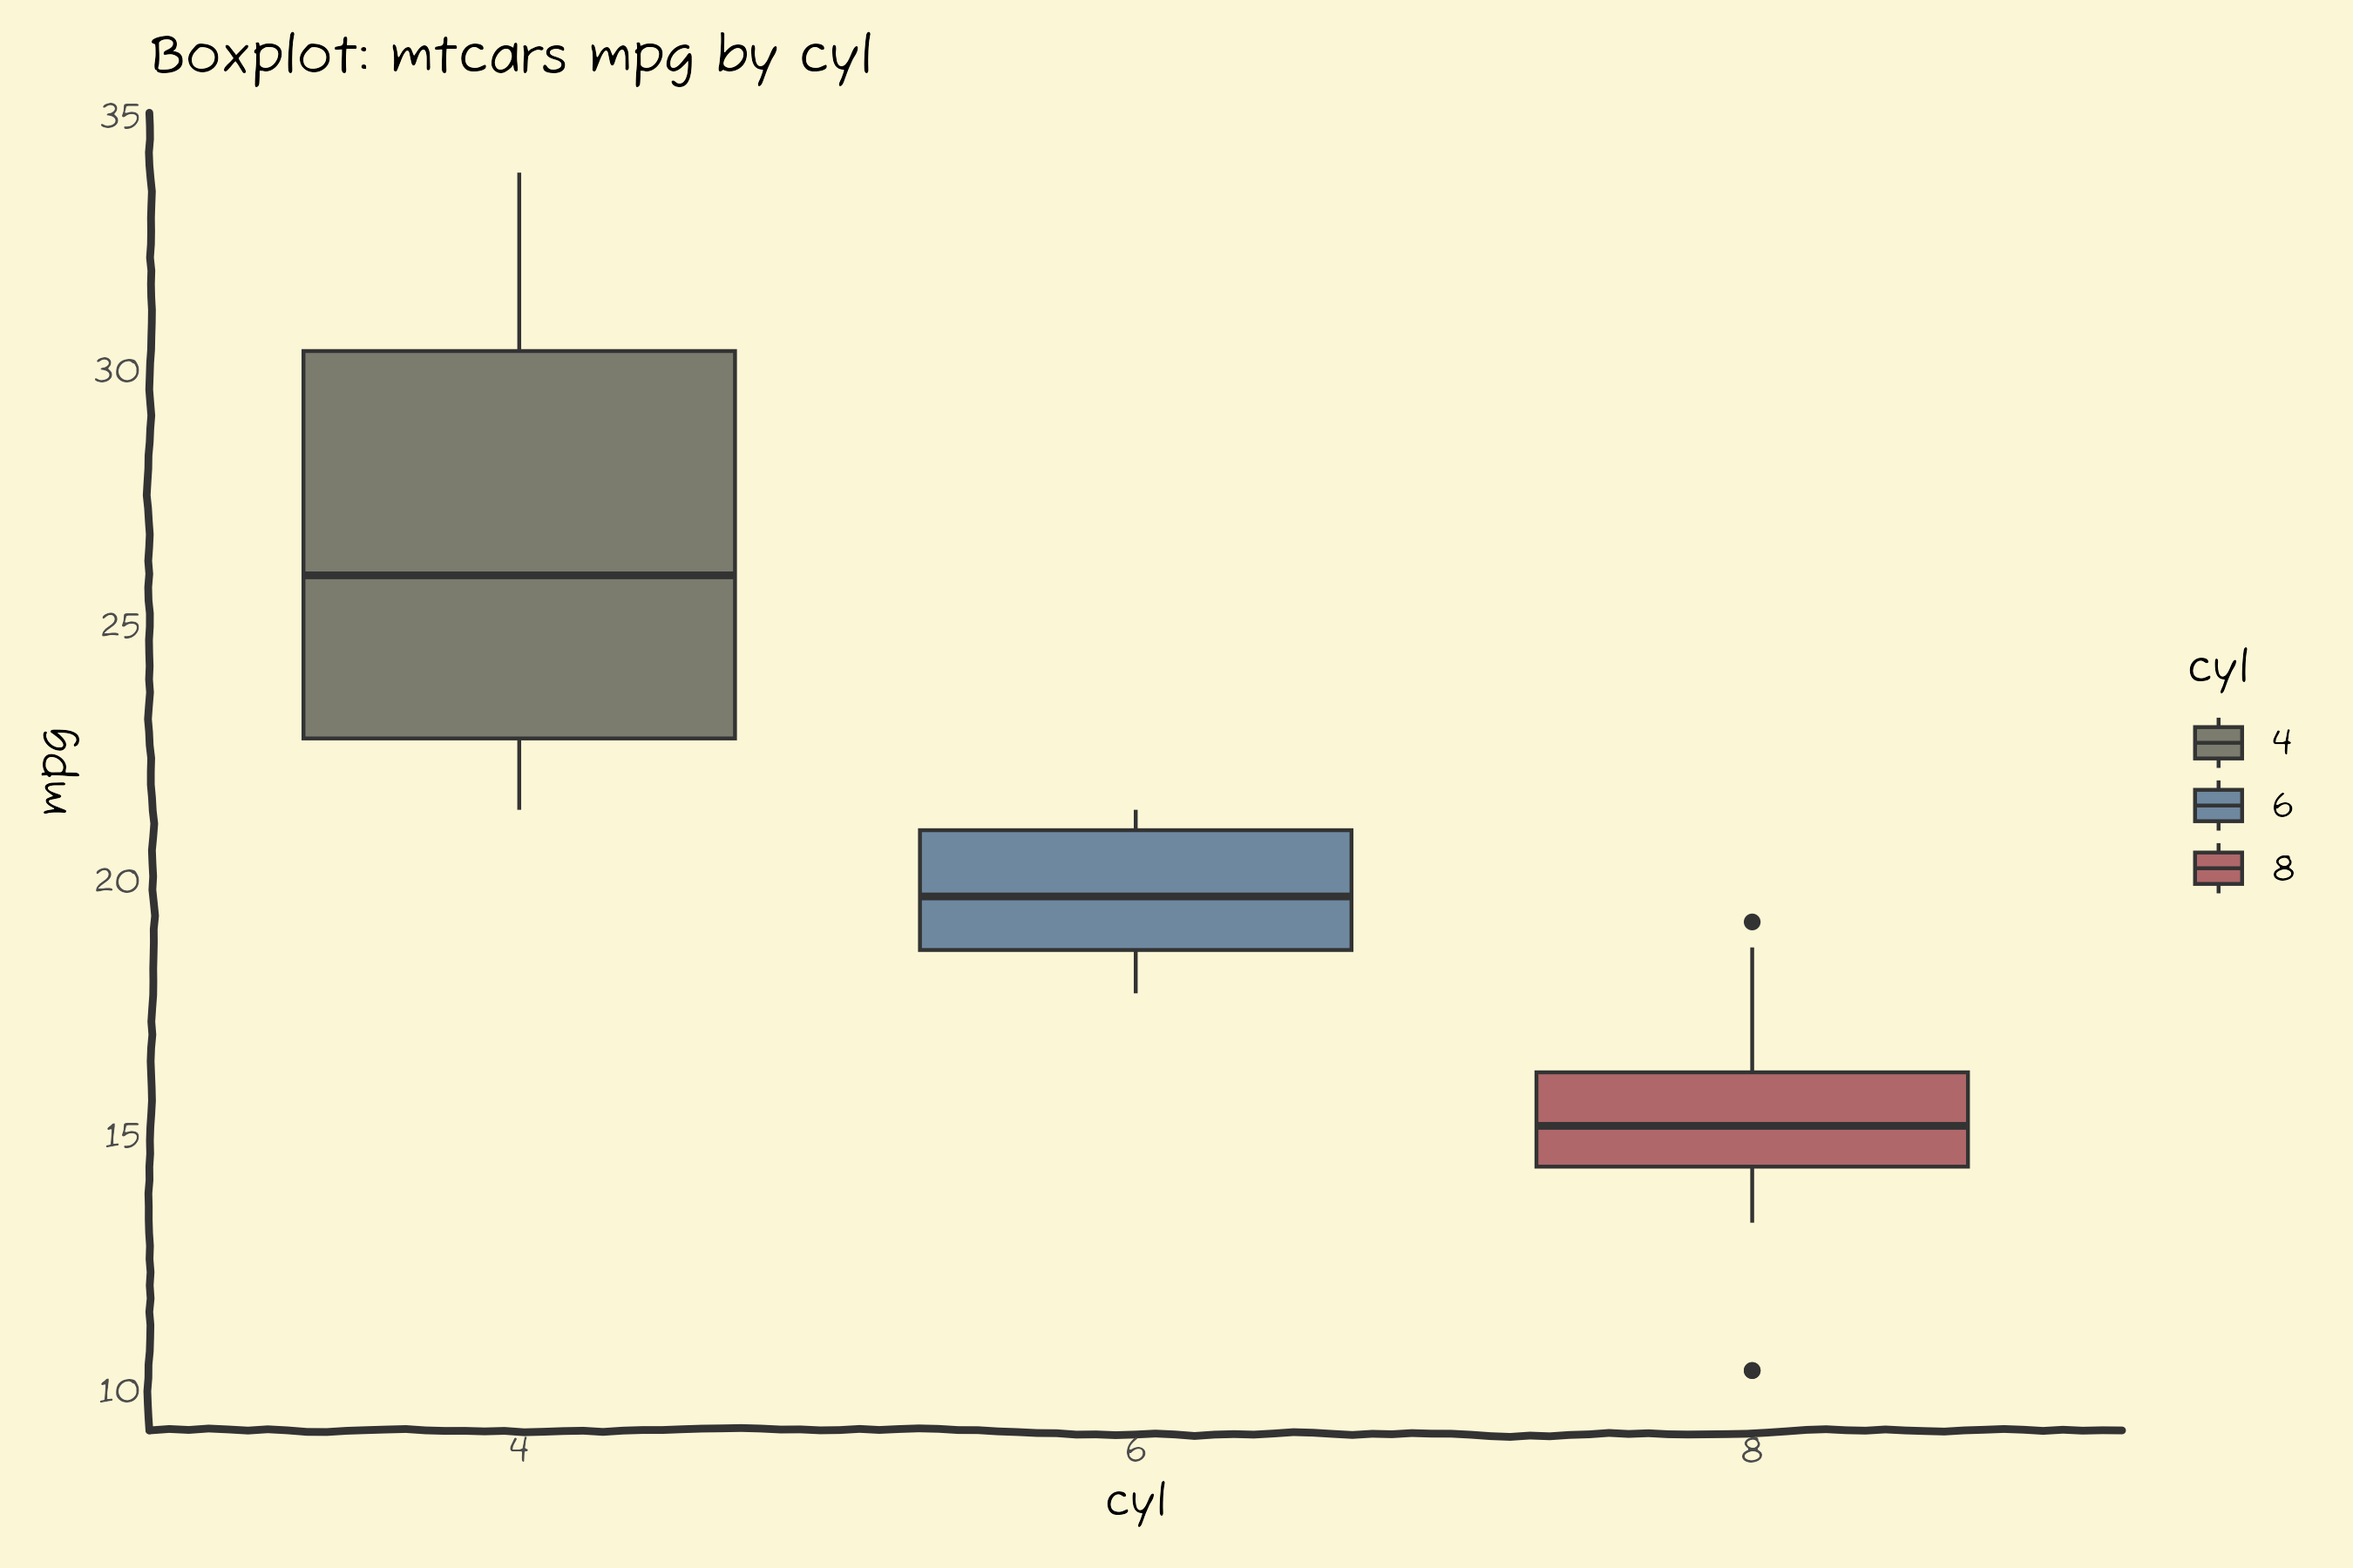
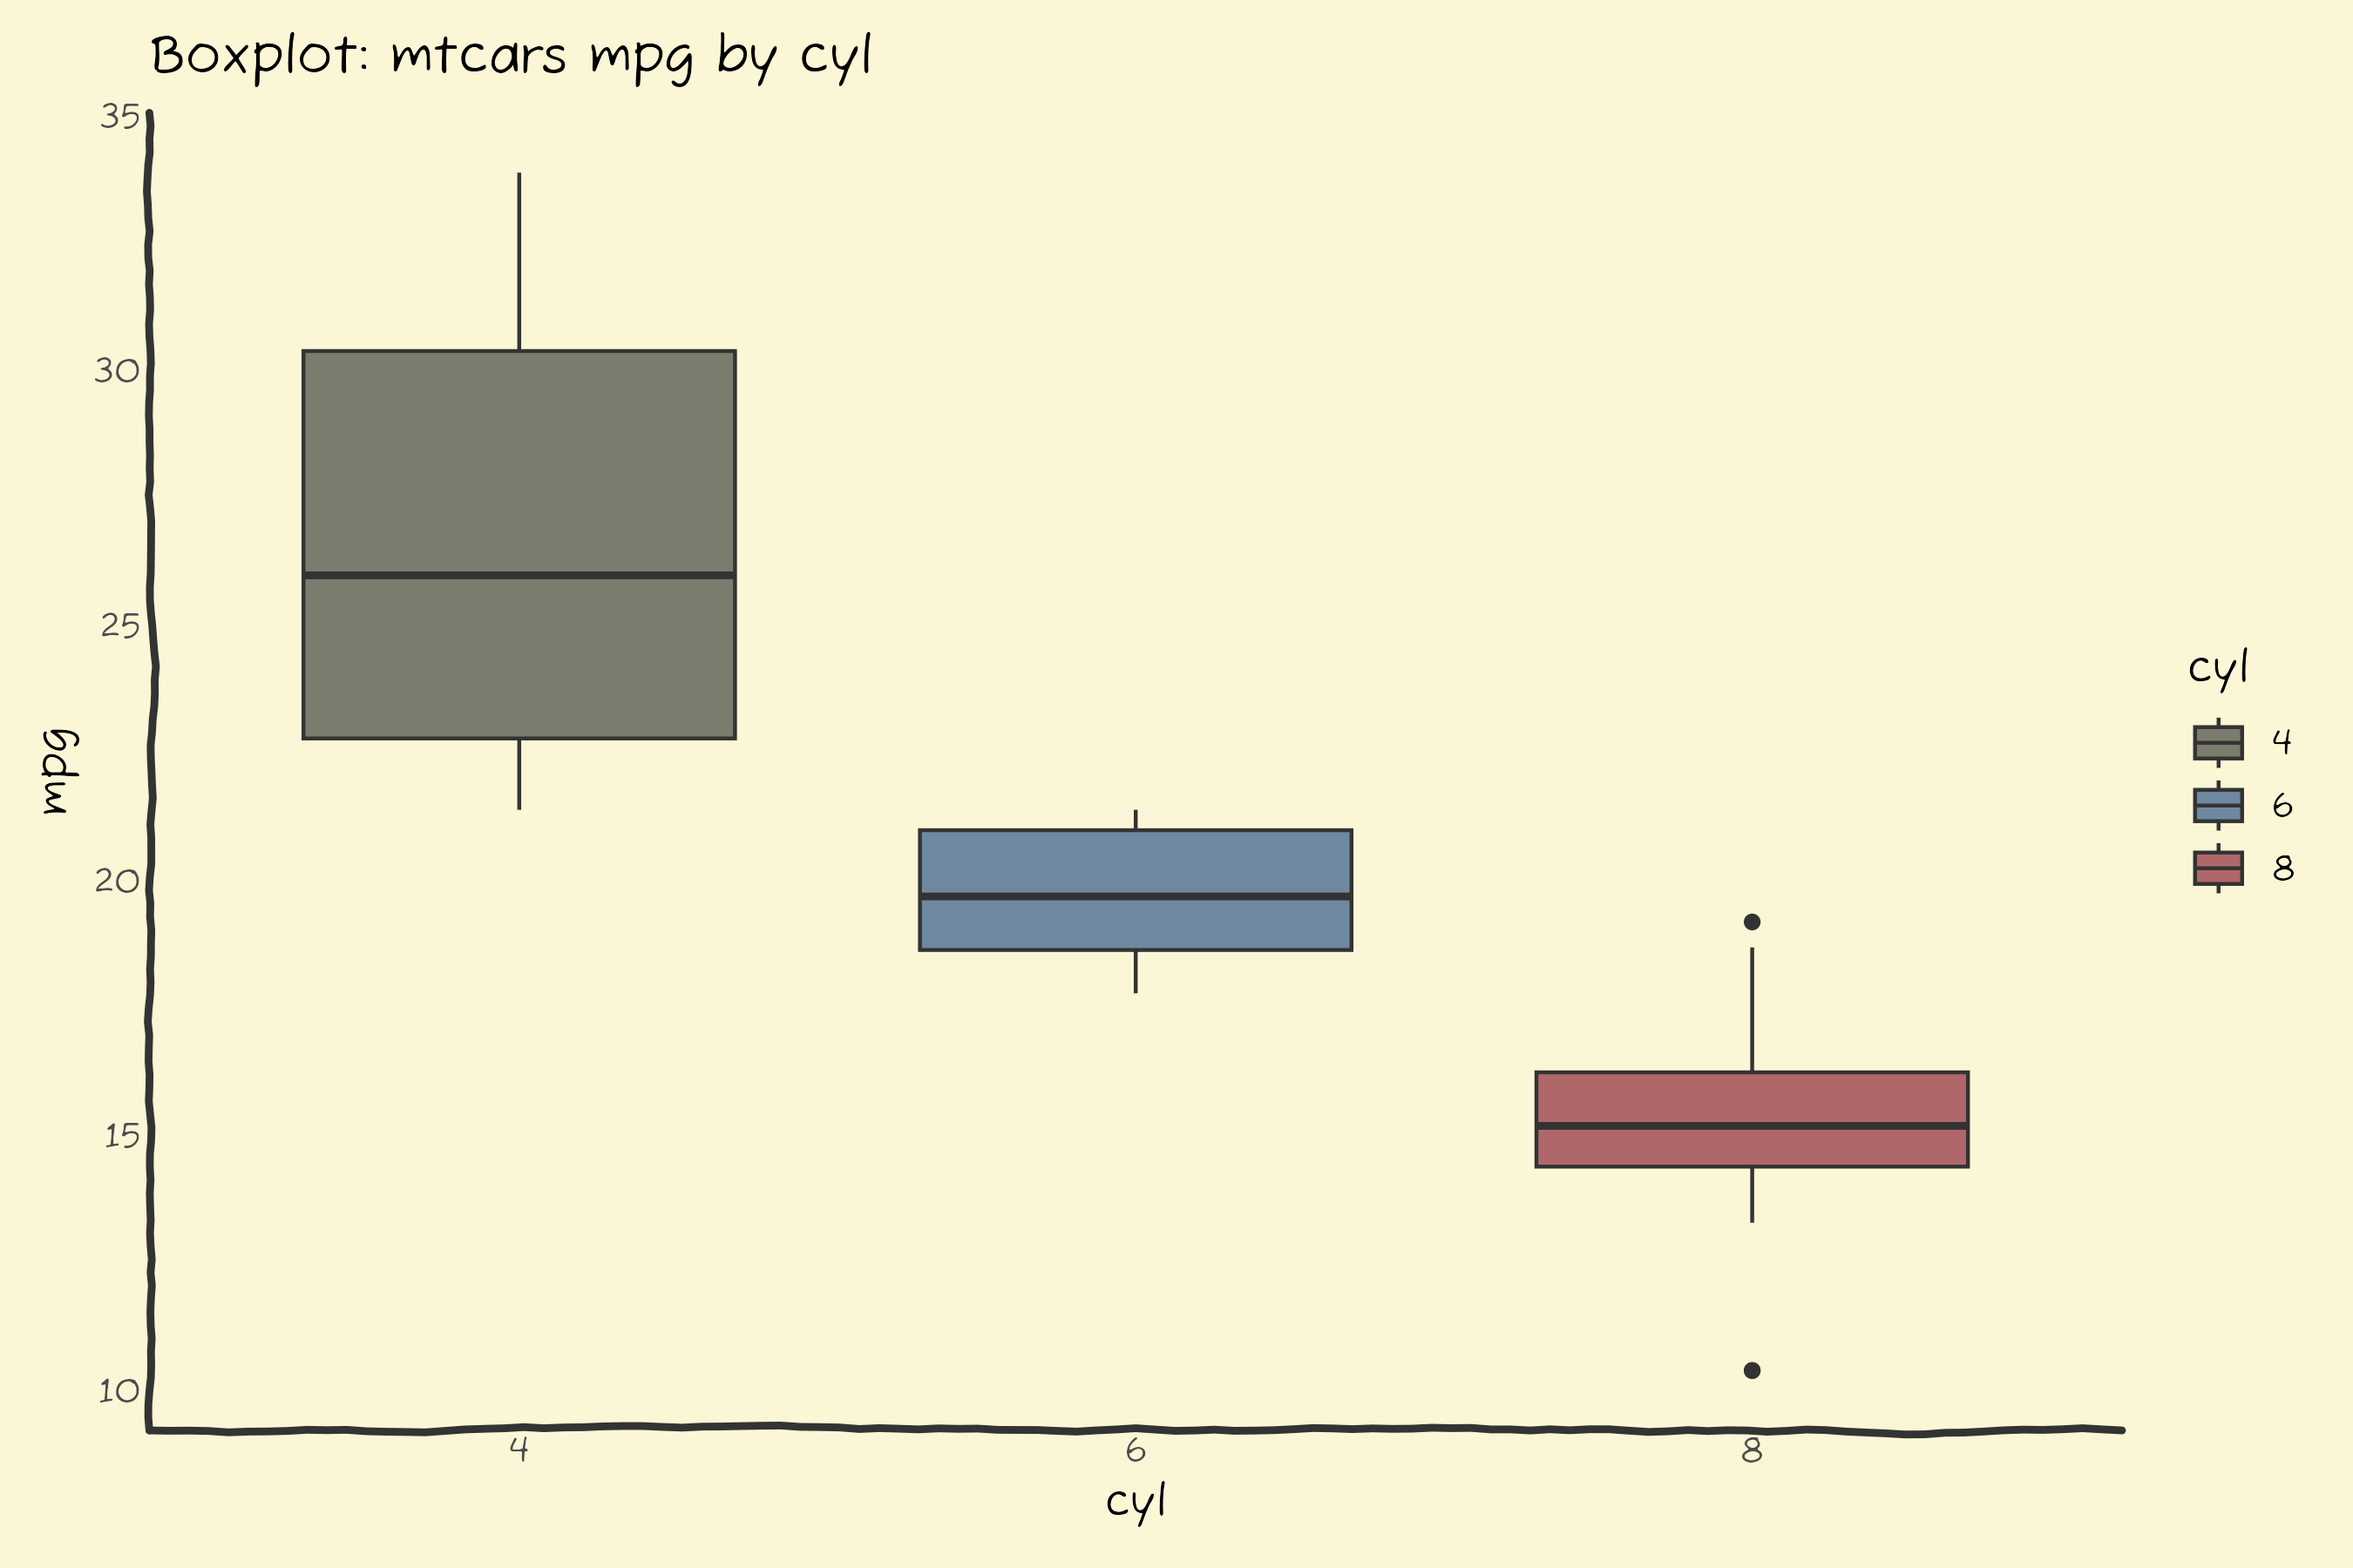
adding readme update given new font

diff --git a/README.md b/README.md
@@ -12,6 +12,16 @@ experimental](https://img.shields.io/badge/lifecycle-experimental-orange.svg)](h
 The goal of jonohey is to provide color palettes inspired by Jono Hey’s
 sketches at [Sketchplanations](https://sketchplanations.com/).
 
+<div class="callout">
+
+These palettes were not selected following criteria of color theory or
+accessibility. You might find that separability is not grat, especially
+when the number of colors is large. These palettes are intended for fun
+and to add a sketchy aesthetic to your visualizations. Use what works,
+toss the rest. Cution advised in professional settings!
+
+</div>
+
 ## Installation
 
 You can install the development version of jonohey from
@@ -28,7 +38,7 @@ These examples display the color palettes themselves. For utilization of
 the package, check [the docs](matiasandina.github.io/jonohey/) 📖.
 
 ``` r
-library(jonohey)
+library(jonohey, quietly = TRUE)
 library(patchwork)
 library(ggplot2)
 
@@ -150,6 +160,80 @@ You can find the source for the sketch inspiring the palette at
 
 ------------------------------------------------------------------------
 
+There are two palettes without associated images: “light” and “dark”.
+They contain 9 colors each, in light and dark tones respectively.
+
+``` r
+jonohey_show("light")
+```
+
+<img src="man/figures/README-lightpal-1.png" width="100%" style="display: block; margin: auto;" />
+
+``` r
+jonohey_show("dark")
+```
+
+<img src="man/figures/README-darkpal-1.png" width="100%" style="display: block; margin: auto;" />
+
+These palettes have 9 colors, which can be useful for plotting
+categorical data with many levels.
+
+``` r
+p_bar <- dplyr::storms  |> 
+  dplyr::count(status) |>
+  dplyr::mutate(status = forcats::fct_reorder(status, n, .desc = TRUE)) |>
+  ggplot(aes(n, status, fill=status)) + 
+  geom_col(show.legend = FALSE, color = "black") +
+  theme_card(base_size = 12, radius_panel = 10)
+
+xy_summ <- dplyr::storms |> 
+  dplyr::group_by(status) |> 
+  dplyr::summarise(
+    n = dplyr::n(),
+    wind_mean = mean(wind, na.rm = TRUE),
+    wind_sd   = sd(wind,   na.rm = TRUE),
+    pres_mean = mean(pressure, na.rm = TRUE),
+    pres_sd   = sd(pressure,   na.rm = TRUE),
+    .groups = "drop"
+  ) |> 
+  dplyr::mutate(
+    wind_ci = qt(0.999, df = pmax(n - 1, 1)) * wind_sd / sqrt(n),
+    pres_ci = qt(0.999, df = pmax(n - 1, 1)) * pres_sd / sqrt(n),
+    xmin = wind_mean - wind_ci, xmax = wind_mean + wind_ci,
+    ymin = pres_mean - pres_ci, ymax = pres_mean + pres_ci
+  )
+
+p <- ggplot(xy_summ, aes(wind_mean, pres_mean, fill = status)) +
+  geom_point(size = 3, pch = 21) +
+  geom_errorbar(aes(ymin = ymin, ymax = ymax, color = status), width = 0, show.legend = FALSE) +
+  geom_errorbarh(aes(xmin = xmin, xmax = xmax, color = status), height = 0, show.legend = FALSE) +
+  theme_card(base_size = 12, , radius_panel = 10) +
+  labs(x = "Wind", y = "Pressure", color = "Status") +
+  theme(legend.position = "none",
+  )
+
+
+p_bar + 
+  scale_fill_jonohey("light") +
+  labs(title = "Using the 'light' palette in dplyr::storms data") +
+p + 
+  scale_fill_jonohey("light") +
+  scale_color_jonohey("light")
+```
+
+<img src="man/figures/README-exampe9_light-1.png" width="100%" style="display: block; margin: auto;" />
+
+``` r
+p_bar + 
+  scale_fill_jonohey("dark") +
+  labs(title = "Using the 'dark' palette in dplyr::storms data") +
+p + 
+  scale_fill_jonohey("dark") +
+  scale_color_jonohey("dark") 
+```
+
+<img src="man/figures/README-exampe9_dark-1.png" width="100%" style="display: block; margin: auto;" />
+
 ## Using ragg for consistent typography
 
 Since we provide a custom font (“Fuzzy Bubbles”) to match a sketchy
@@ -172,3 +256,15 @@ in RStudio.
 ## Issues
 
 This is a preliminary release, file issues to improve the package.
+
+## Acknowledgements
+
+<div class="callout">
+
+Shoutout to Jono Hey for the inspiration and permission to use his
+sketches as a basis for color palettes!
+
+You can find Jono Hey’s work at
+[Sketchplanations](https://sketchplanations.com/).
+
+</div>
